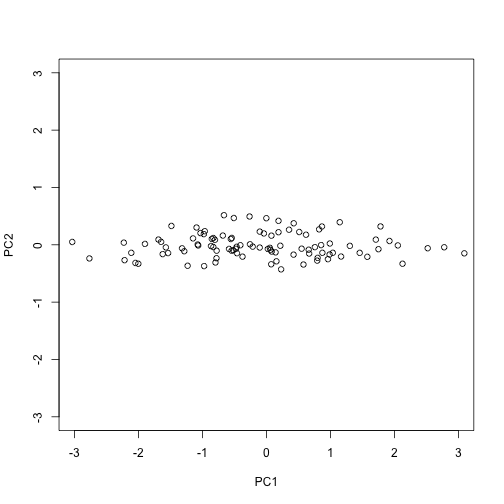
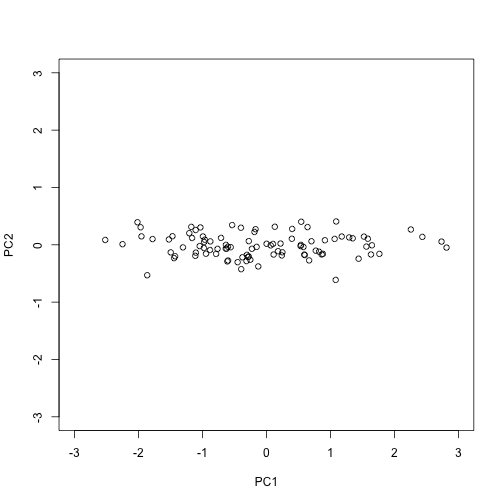
adding svd to book

Changed region(s): [[0.2381, 0.4167, 0.8036, 0.5655], [0.8036, 0.4464, 0.8929, 0.506]]

diff --git a/manuscript/svd.md b/manuscript/svd.md
@@ -9,7 +9,7 @@ title: Singular Value Decomposition
 
 The R markdown document for this section is available [here](https://github.com/genomicsclass/labs/tree/master/highdim/svd.Rmd).
 
-In the previous section we motivated dimension reduction and showed a transformation that permitted us to approximate the distance between two dimensional points with the distance betwee points with just one dimension. The singular value decomposition (SVD) is a generalization of the algorithm we used in the motivational section. As in the example, the SVD provides a transformation of the original data. As we will see, this transformation has some very useful properties. 
+In the previous section we motivated dimension reduction and showed a transformation that permitted us to approximate the distance between two dimensional points with the distance between points with just one dimension. The singular value decomposition (SVD) is a generalization of the algorithm we used in the motivational section. As in the example, the SVD provides a transformation of the original data. As we will see, this transformation has some very useful properties. 
 
 The main result SVD provides is that we can write an {$$}m \times n{/$$}, matrix {$$}\mathbf{Y}{/$$} as
 
@@ -21,12 +21,12 @@ With:
 * {$$}\mathbf{V}{/$$} is an {$$}p \times p{/$$} orthogonal matrix
 * {$$}\mathbf{D}{/$$} is an {$$}n \times p{/$$} diagonal matrix 
 
-with {$$}p=\mbox{min}(m,n){/$$}. Note that {$$}\mathbf{U}^\top{/$$} provide the rotation of our data {$$}\mathbf{Y}{/$$} that turns out to be very useful because the variability (sum of squares to be precise) of the columns of {$$}\mathbf{VD}{/$$} are decreasing.
+with {$$}p=\mbox{min}(m,n){/$$}. Note that {$$}\mathbf{U}^\top{/$$} provides a rotation of our data {$$}\mathbf{Y}{/$$} that turns out to be very useful because the variability (sum of squares to be precise) of the columns of {$$}\mathbf{U}^\top \mathbf{Y}=\mathbf{VD}{/$$} are decreasing.
 Also note that because {$$}\mathbf{U}{/$$} is orthogonal, we can wrtie the SVD like this: 
 
 {$$}\mathbf{Y} = \mathbf{UDV}^\top{/$$}
 
-In fact, the formula above is much more commonly used. Also note that we can write the transformation like this:
+In fact, this formula is much more commonly used. Also note that we can write the transformation like this:
 
 {$$}\mathbf{YV} = \mathbf{UD}{/$$}
 
@@ -36,6 +36,13 @@ This transformaton of {$$}Y{/$$} also results in a matrix with column of decreas
 Applying the SVD to the motivating example we have:
 
 
+```r
+library(rafalib)
+library(MASS)
+n <- 100
+y <- t(mvrnorm(n,c(0,0), matrix(c(1,0.95,0.95,1),2,2)))
+s <- svd(y)
+```
 
 We can immediately see that applying the SVD results in a transformation very similar to the one we used in the motivating example:
 
@@ -45,8 +52,8 @@ round(sqrt(2) * s$u , 3)
 
 ```
 ##        [,1]   [,2]
-## [1,] -1.001 -0.999
-## [2,] -0.999  1.001
+## [1,] -1.009 -0.991
+## [2,] -0.991  1.009
 ```
 
 The plot we showed after the rotation, was showing what we call the _principal components_: the second plotted againts the first. To obtain the principal components from the SVD we simply need the columns of the rotation {$$}\mathbf{U}^\top\mathbf{Y}{/$$} :
@@ -63,7 +70,7 @@ plot(PC1,PC2,xlim=c(-3,3),ylim=c(-3,3))
 
 ### How is this useful?
 
-It is not immediately obvious how incredibly useful the SVD can be so let's consider some examples. In this example we will try to reduce dimension of {$$}V{/$$} and still be able to reconstruct {$$}Y{/$$}.
+It is not immediately obvious how incredibly useful the SVD can be so let's consider some examples. In this example we will greatly reduce the dimension of {$$}V{/$$} and still be able to reconstruct {$$}Y{/$$}.
 
 Let's compute the SVD on the gene expression table we have been working with. We will take a subset of 100 genes so that computations are faster.
 
@@ -97,7 +104,7 @@ max(abs(resid))
 ## [1] 3.508305e-14
 ```
 
-If we look at the sum of squares of {$$}\mathbf{UD}{/$$} we see that the last few are quite close to 0.  
+If we look at the sum of squares of {$$}\mathbf{UD}{/$$} we see that the last few are quite close to 0 (perhaps we have some replicated columns).  
 
 
 ```r
@@ -140,7 +147,7 @@ plot(cumsum(s$d^2)/sum(s$d^2)*100,ylab="Percent variability explained",ylim=c(0,
 
 ![Cumulative variance explained by principal components of gene expression data.](images/R/svd-tmp-cum_variance_explained-1.png) 
 
-We see that although we start with just 125 dimensions we can approximate {$$}Y{/$$}:
+We see that although we start with 189 dimensions we can approximate {$$}Y{/$$} with just 95:
 
 
 ```r
@@ -165,7 +172,7 @@ var(as.vector(resid))/var(as.vector(Y))
 
 We say that we explain 96% of the variability.
 
-Note that we can compute this proportionfrom {$$}D{/$$}:
+Note that we can compute this proportion from {$$}D{/$$}:
 
 ```r
 1-sum(s$d[1:k]^2)/sum(s$d^2)
@@ -174,7 +181,7 @@ Note that we can compute this proportionfrom {$$}D{/$$}:
 ```
 ## [1] 0.04076899
 ```
-Thus the entries of {$$}D{/$$} tell us how much each
+Thus the entries of {$$}D{/$$} tell us how much each PC contributes in term of variability explained.
 
 ### Highly correlated data
 
